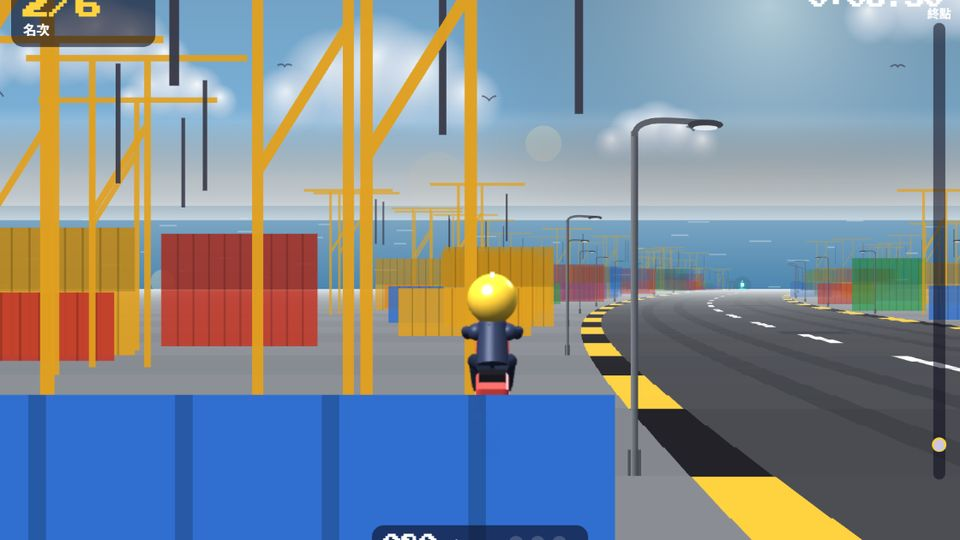
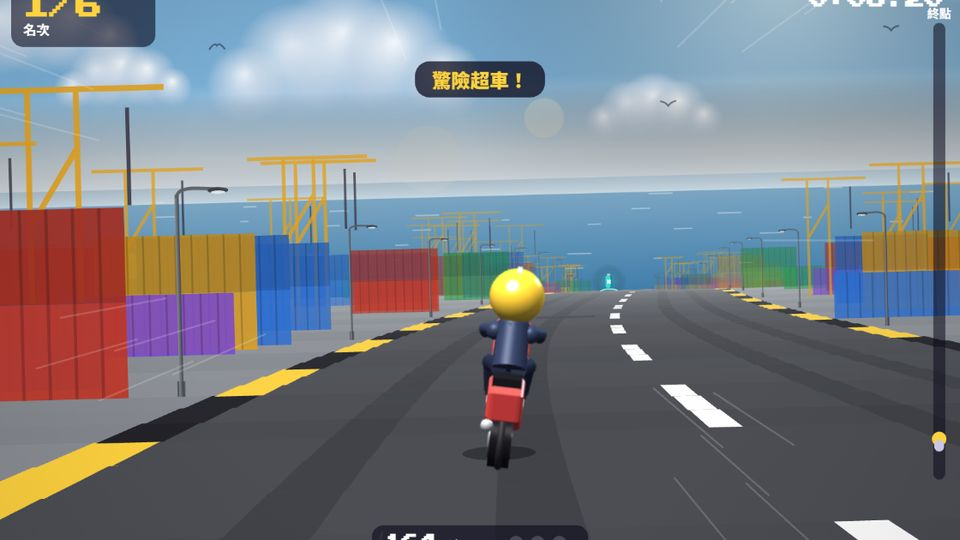
飆風機車王主視覺重拍：自動駕駛沿路騎，不再衝出彎道 (v322)

diff --git a/index.html b/index.html
@@ -298,7 +298,7 @@ body.padswap #pad{flex-direction:row-reverse} /* 方向鍵放右邊 */
 <div id="modal" hidden><div class="card" id="mcard"></div></div>
 
 <script>
-window.ARCADE_V=321; // 每次改版加一
+window.ARCADE_V=322; // 每次改版加一
 (function(){ var q=/github\.io$/.test(location.hostname)?'?v='+window.ARCADE_V:'';
   document.write(['stairs','kart','bomb','volley','crowd3d','dodge3d','dodge','soccer3d','soccer','bowl3d','bowl','baseball3d','baseball','purple','rummy','mahjong','meow','poker','dice','deliver3d','deliver','chess','qi','racer','brawl','bball3d','bball','h3d','golf3d','golf','pool3d','pool','blocks','drum','dance','tower','jelly','rich','space','royale','draw','wolf','passbomb','bubble','claw','tank','dash','spin','night','chase3d','chase','sumo','sky','boxing','ace','classic','hide','spy','sling','room','boomcode','tug','truth','charades','party','gems','chair','tacit','piano','stroke','dragon','badminton','cook','fish','pickleball','tennis','pingpong','racket'].map(function(n){ return '<script src="'+n+'.js'+q+'"><\/script>'; }).join('')); })();
 </script>
